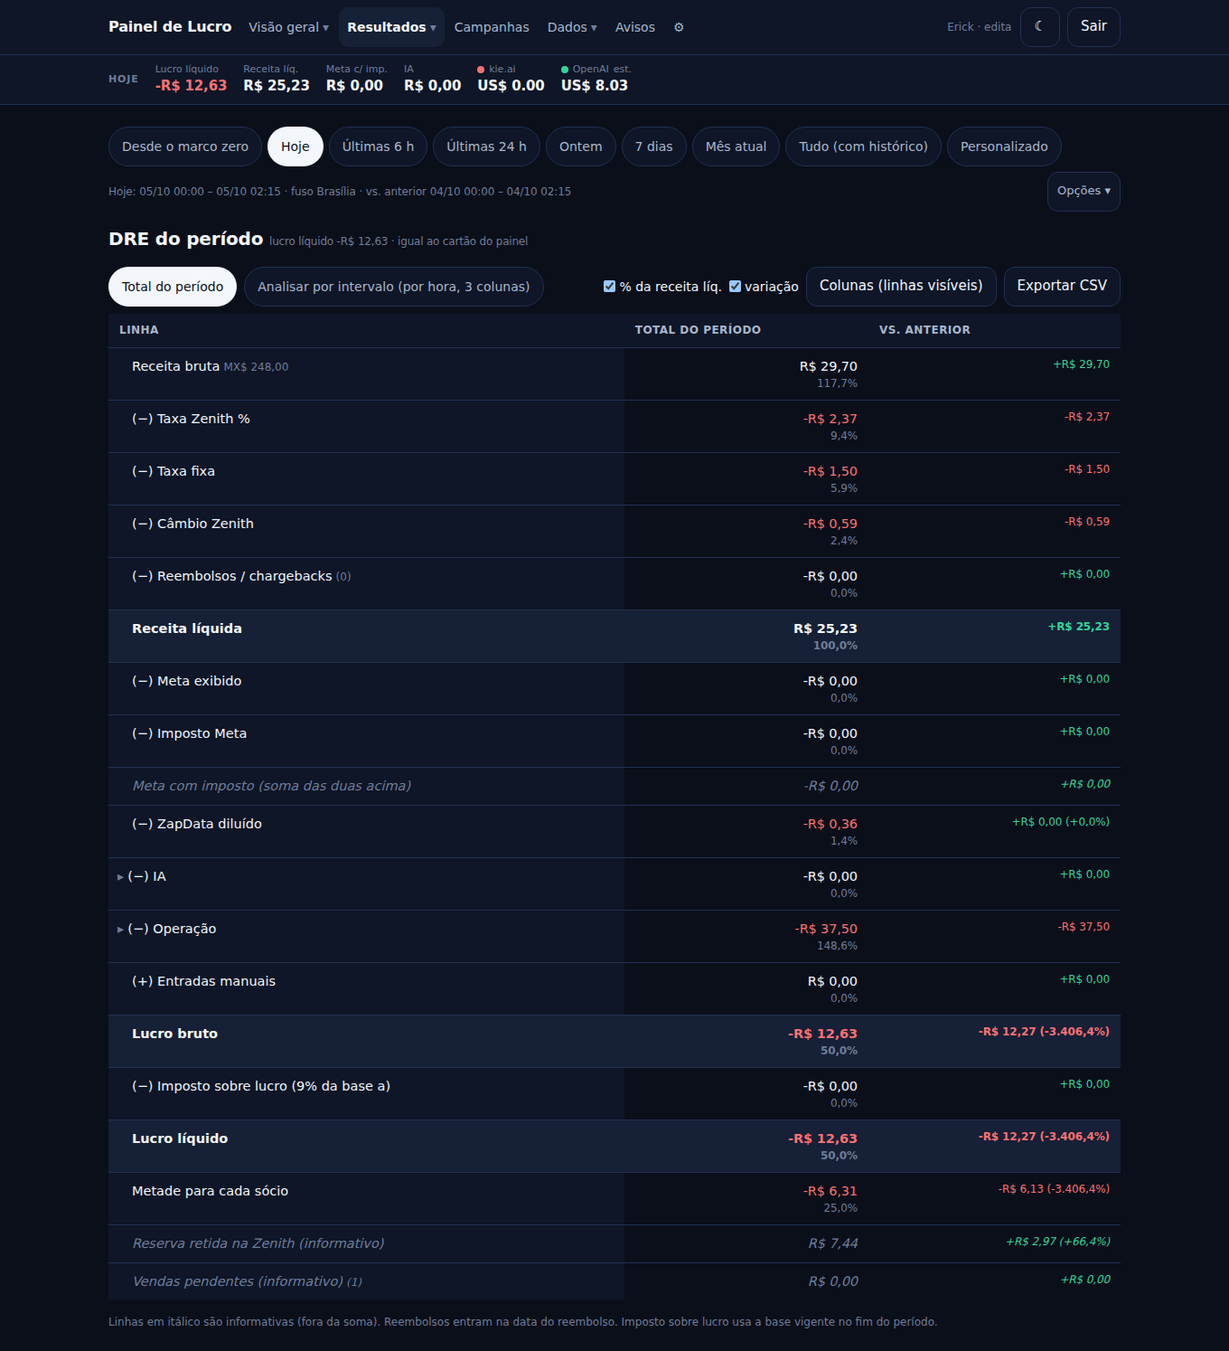
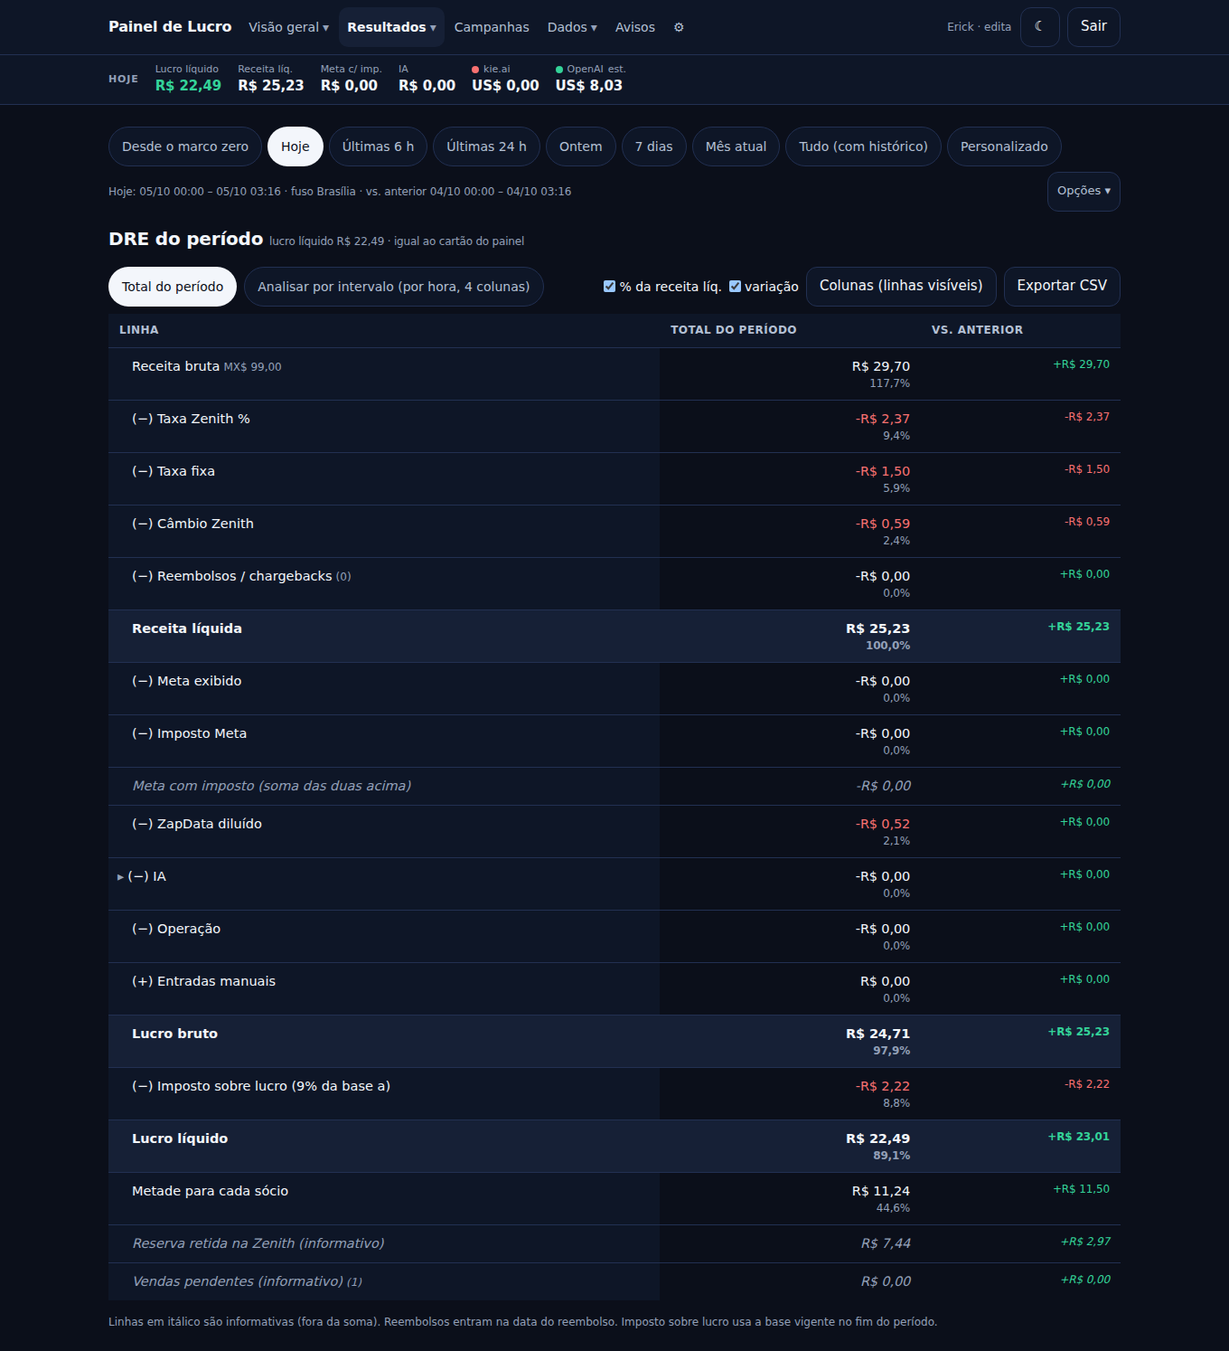
Ajustes finos do visual: sem texto quando não há base de comparação; % da variação só com base comparável (nunca com base quase zero ou troca de sinal); período só no destaque; Lucro bruto só quando difere do líquido e metade por sócio só no destaque; contraste dos rótulos ≥ 4,5:1 no claro e no escu
Claude-Session: https://claude.ai/code/session_013YvvEsXnhEqyztXkJ9r3to

diff --git a/src/app/(app)/page.tsx b/src/app/(app)/page.tsx
@@ -11,7 +11,10 @@ import { BotaoAtualizar } from "@/components/atualizar";
 import { VisoesSalvas } from "@/components/visoes";
 import { FaltaEmpatar, Projecao, GastoPorHora, TabelaNumeros } from "@/components/operacao";
 import { CartoesCreditos } from "@/components/creditos";
-import { fmtHora, fmtMoeda, fmtMXN } from "@/lib/formato";
+import { carregarCreditos } from "@/coletores/creditos";
+import { semaforoSaldo, coletaFalhando } from "@/lib/hoje";
+import { faltaParaEmpatar, gastoPorNumero } from "@/lib/calculo";
+import { fmtHora, fmtMoeda, fmtMXN, fmtHorasRestantes } from "@/lib/formato";
 import { ROTULO_FONTE } from "@/coletores";
 import { ultimaTaxaMxnInfo, ROTULO_FONTE_CAMBIO } from "@/coletores/cambio";
 import type { Params } from "@/lib/periodo-url";
@@ -25,7 +28,7 @@ export default async function Painel({ searchParams }: { searchParams: Promise<P
   const hojeP = resolverAtalho("hoje", estado.agora, estado.marcoZero, estado.tz).periodo;
   const hoje = ctx.calc(hojeP);
   const fatias = dreFatiada(ctx.entrada, estado.periodo, estado.gran, estado.tz);
-  const taxaMxnInfo = await ultimaTaxaMxnInfo().catch(() => null);
+  const [taxaMxnInfo, creditos] = await Promise.all([ultimaTaxaMxnInfo().catch(() => null), carregarCreditos(estado.agora, estado.tz).catch(() => null)]);
   const mesBruto = resolverAtalho("mes_atual", estado.agora, estado.marcoZero, estado.tz).periodo;
   const mesP = { inicio: new Date(Math.max(mesBruto.inicio.getTime(), estado.marcoZero.getTime())), fim: mesBruto.fim }; // mesma base do "desde o marco zero"
   const mes = ctx.calc(mesP);
@@ -39,11 +42,24 @@ export default async function Painel({ searchParams }: { searchParams: Promise<P
   const varLucro = textoVariacao(t.lucroLiquido, a.lucroLiquido, temBaseAnterior, "moeda", estado.moeda, taxaMxn);
   const atrasadas = [...coletas.entries()].filter(([f, c]) => f !== "zenith" && !c.naoConfigurada && (!c.ultimaOk || estado.agora.getTime() - c.ultimaOk.getTime() > 30 * 60_000));
   const query = new URLSearchParams(Object.entries(sp).flatMap(([k, v]) => (typeof v === "string" ? [[k, v]] : []))).toString();
+  const numeros = gastoPorNumero(ctx.entrada.lancamentos, estado.periodo, ctx.params, estado.incluirHistorico);
+  const topNumero = Array.isArray(numeros) && numeros.length ? [...numeros].sort((x, y) => y.gasto - x.gasto)[0] : null;
+  const falta = faltaParaEmpatar(hoje);
+  const COR_SEM = { verde: "pos", amarelo: "text-warn", vermelho: "neg", cinza: "" } as const;
+  const resumoCreditos = (() => {
+    if (!creditos) return "dado indisponível";
+    const itens = [["kie.ai", creditos.kie, "kie"], ["OpenAI", creditos.openai, "openai"]] as const;
+    const comHoras = itens.filter(([, s]) => s.horasRestantes != null).sort((a, b) => a[1].horasRestantes! - b[1].horasRestantes!);
+    if (!comHoras.length) return "sem estimativa de duração";
+    const [nome, s, fonte] = comHoras[0];
+    const sem = semaforoSaldo(s, coletaFalhando(coletas.get(fonte), estado.agora));
+    return <span className={COR_SEM[sem]}>{nome} acaba em {fmtHorasRestantes(s.horasRestantes)}</span>;
+  })();
   const cCambio = coletas.get("cambio"); const agendadorHa = cCambio ? Math.round((estado.agora.getTime() - cCambio.ultima.getTime()) / 60_000) : null;
 
   return (
     <>
-      <Suspense fallback={<div className="h-12 skeleton" />}><SeletorPeriodo {...ctx.propsSeletor} /></Suspense>
+      <Suspense fallback={<div className="h-12 skeleton" />}><SeletorPeriodo {...ctx.propsSeletor} semRotulo /></Suspense>
       <VisoesSalvas />
       {ctx.problemas.length > 0 && <div className="text-xs text-warn">{ctx.problemas.map((p, i) => <div key={i}>⚠ {p}</div>)}</div>}
 
@@ -53,7 +69,7 @@ export default async function Painel({ searchParams }: { searchParams: Promise<P
           <div className="hero-k">Lucro líquido do período <span className="text-ink-3">· {ctx.propsSeletor.rotuloPeriodo}</span></div>
           <div className={`hero-v num ${t.lucroLiquido < 0 ? "neg" : t.lucroLiquido > 0 ? "pos" : ""}`}>{money(t.lucroLiquido)}</div>
           <div className="hero-sub num">
-            <span className={varLucro.bom == null ? "" : varLucro.bom ? "pos" : "neg"}>{varLucro.texto}{varLucro.bom != null && <span className="text-ink-3"> ({ctx.propsSeletor.rotuloAnterior})</span>}</span>
+            {varLucro.texto && <span className={varLucro.bom == null ? "" : varLucro.bom ? "pos" : "neg"}>{varLucro.texto}<span className="text-ink-3"> ({ctx.propsSeletor.rotuloAnterior})</span></span>}
             <span>metade para cada sócio {money(t.porSocio)}</span>
           </div>
         </div>
@@ -73,13 +89,12 @@ export default async function Painel({ searchParams }: { searchParams: Promise<P
 
       <Secao id="indicadores" titulo="Indicadores" resumo={`margem ${i.margemLiquida == null ? "—" : `${(i.margemLiquida * 100).toFixed(1)}%`} · ROAS ${i.roas == null ? "—" : `${i.roas.toFixed(2)}×`}`}>
         <div className="grade-metricas">
-          <Metrica rotulo="Lucro bruto" valor={t.lucroBruto} anterior={a.lucroBruto} colorir {...base} />
+          {Math.abs(t.lucroBruto - t.lucroLiquido) >= 0.005 && <Metrica rotulo="Lucro bruto" valor={t.lucroBruto} anterior={a.lucroBruto} colorir {...base} />}
           <Metrica rotulo="Margem líquida" valor={i.margemLiquida} anterior={ia.margemLiquida} formato="pct" temBase={temBaseAnterior} />
           <Metrica rotulo="Ticket médio líquido" valor={i.ticketMedioLiquido} anterior={ia.ticketMedioLiquido} {...base} />
           <Metrica rotulo="Custo por venda" valor={i.custoPorVenda} anterior={ia.custoPorVenda} inverterSinal {...base} />
           <Metrica rotulo="ROAS" valor={i.roas} anterior={ia.roas} formato="razao" temBase={temBaseAnterior} nota={i.roas == null ? "sem receita no período" : undefined} />
           <Metrica rotulo="POAS" valor={i.poas} anterior={ia.poas} formato="razao" temBase={temBaseAnterior} nota={i.poas == null ? "sem receita no período" : undefined} />
-          <Metrica rotulo="Metade para cada sócio" valor={t.porSocio} anterior={a.porSocio} colorir {...base} />
           <Metrica rotulo="Imposto sobre lucro" valor={t.impostoLucro} anterior={a.impostoLucro} inverterSinal {...base} />
         </div>
       </Secao>
@@ -107,17 +122,17 @@ export default async function Painel({ searchParams }: { searchParams: Promise<P
         </div>
       </Secao>
 
-      <Secao id="numeros" titulo="Por número de WhatsApp">
+      <Secao id="numeros" titulo="Por número de WhatsApp" resumo={topNumero ? `maior gasto: ${topNumero.numero} ${money(topNumero.gasto)}` : "sem gasto no período"}>
         <TabelaNumeros lancamentos={ctx.entrada.lancamentos} periodo={estado.periodo} params={ctx.params} incluirHistorico={estado.incluirHistorico} {...d} />
       </Secao>
 
-      <Secao id="graficos" titulo="Gráficos">
+      <Secao id="graficos" titulo="Gráficos" resumo={`lucro por ${estado.gran} · ${fatias.length} pontos`}>
         <Grafico dados={dadosGrafico} titulo={`Receita líquida × custos empilhados + lucro líquido (por ${estado.gran})`} />
         <GastoPorHora lancamentos={ctx.entrada.lancamentos} periodo={estado.periodo} tz={estado.tz} params={ctx.params} incluirHistorico={estado.incluirHistorico} rotuloPeriodo={ctx.propsSeletor.rotuloPeriodo} {...d} />
         {estado.moeda === "MXN" && <p className="text-xs text-ink-3">Valores em MX$ convertidos de BRL pela última taxa MXN→BRL conhecida ({taxaMxn?.toFixed(4) ?? "—"}). Gráficos permanecem em R$.</p>}
       </Secao>
 
-      <Secao id="projecao" titulo="Projeção e ponto de equilíbrio">
+      <Secao id="projecao" titulo="Projeção e ponto de equilíbrio" resumo={falta.faltaReceita === 0 ? <span className="pos">hoje já está no lucro</span> : `falta ${money(falta.faltaReceita)} para empatar hoje`}>
         <div className="grade-metricas">
           <FaltaEmpatar hoje={hoje} {...d} />
           <Projecao mes={mes} agora={estado.agora} tz={estado.tz} marcoZero={estado.marcoZero} {...d} />
@@ -126,8 +141,8 @@ export default async function Painel({ searchParams }: { searchParams: Promise<P
         </div>
       </Secao>
 
-      <Secao id="creditos" titulo="Créditos das IAs">
-        <CartoesCreditos tz={estado.tz} agora={estado.agora} edita={ctx.sessao.papel === "edita"} />
+      <Secao id="creditos" titulo="Créditos das IAs" resumo={resumoCreditos}>
+        <CartoesCreditos tz={estado.tz} agora={estado.agora} edita={ctx.sessao.papel === "edita"} dados={creditos} />
       </Secao>
 
       <Secao id="fontes" titulo="Fontes e atualização" resumo={agendadorHa == null ? "agendador nunca rodou" : `agendador há ${agendadorHa} min${atrasadas.length ? ` · ${atrasadas.length} fonte(s) atrasada(s)` : ""}`}>

diff --git a/src/app/(app)/dre/tabela.tsx b/src/app/(app)/dre/tabela.tsx
@@ -1,7 +1,7 @@
 "use client";
 import { useMemo, useState } from "react";
 import type { LinhaDRE } from "@/lib/calculo";
-import { fmtMoeda, fmtMXN, fmtPct, fmtPctSimples } from "@/lib/formato";
+import { fmtMoeda, fmtMXN, fmtPct, fmtPctSimples, pctFazSentido } from "@/lib/formato";
 
 export type ColunaDRE = { chave: string; rotulo: string; linhas: LinhaDRE[]; receitaLiquida: number };
 
@@ -96,7 +96,7 @@ export function TabelaDRE(props: { atual: ColunaDRE; anterior: ColunaDRE; temBas
                       <td key={c.chave} className="text-right num whitespace-nowrap">
                         <div className={v < 0 && !li.informativo ? "text-neg" : ""}>{money(v)}</div>
                         {verPct && !li.informativo && <div className="text-xs text-ink-3">{pct == null ? "—" : fmtPctSimples(Math.abs(pct))}</div>}
-                        {modo === "intervalos" && mostrarVar && antCol && <div className="text-xs text-ink-3">{fmtPct(antCol.valor ? (v - antCol.valor) / Math.abs(antCol.valor) : null)}</div>}
+                        {modo === "intervalos" && mostrarVar && antCol && <div className="text-xs text-ink-3">{pctFazSentido(v, antCol.valor) ? fmtPct((v - antCol.valor) / Math.abs(antCol.valor)) : `${v - antCol.valor >= 0 ? "+" : ""}${money(v - antCol.valor)}`}</div>}
                       </td>
                     );
                   })}
@@ -105,7 +105,7 @@ export function TabelaDRE(props: { atual: ColunaDRE; anterior: ColunaDRE; temBas
                     const v = achar(props.atual.linhas, li.chave)?.valor ?? 0;
                     if (a == null) return <td className="text-right text-xs text-ink-3">sem base</td>;
                     const d = v - a;
-                    return <td className="text-right num text-xs whitespace-nowrap"><span className={d >= 0 ? "text-pos" : "text-neg"}>{d >= 0 ? "+" : ""}{money(d)} {a ? `(${fmtPct(d / Math.abs(a))})` : ""}</span></td>;
+                    return <td className="text-right num text-xs whitespace-nowrap"><span className={d >= 0 ? "text-pos" : "text-neg"}>{d >= 0 ? "+" : ""}{money(d)} {pctFazSentido(v, a) ? `(${fmtPct(d / Math.abs(a))})` : ""}</span></td>;
                   })()}
                 </tr>
               );

diff --git a/src/components/creditos.tsx b/src/components/creditos.tsx
@@ -1,15 +1,16 @@
 import { carregarCreditos } from "@/coletores/creditos";
 import { alertaSaldo, type SaldoIA } from "@/lib/calculo";
-import { fmtHora } from "@/lib/formato";
+import { fmtHora, fmtUSD, fmtHorasRestantes } from "@/lib/formato";
 import { paraInputLocal } from "@/lib/periodo-url";
 import { FormCreditoOpenAI } from "./creditos-form";
 
-const usd = (v: number | null | undefined, casas = 2) => (v == null || !Number.isFinite(v) ? "—" : `US$ ${v.toFixed(casas)}`);
+const usd = (v: number | null | undefined, casas = 2) => fmtUSD(v, casas);
 
-export async function CartoesCreditos({ tz, agora, edita }: { tz: string; agora: Date; edita: boolean }) {
-  let dados: Awaited<ReturnType<typeof carregarCreditos>> | null = null;
+export type DadosCreditos = Awaited<ReturnType<typeof carregarCreditos>>;
+export async function CartoesCreditos({ tz, agora, edita, dados: pre }: { tz: string; agora: Date; edita: boolean; dados?: DadosCreditos | null }) {
+  let dados: DadosCreditos | null = pre ?? null;
   let erro = "";
-  try { dados = await carregarCreditos(agora, tz); } catch (e) { erro = e instanceof Error ? e.message : String(e); }
+  if (!dados) try { dados = await carregarCreditos(agora, tz); } catch (e) { erro = e instanceof Error ? e.message : String(e); }
   if (!dados) return <div className="card p-3 text-xs text-warn">Créditos das IAs: dado indisponível ({erro}).</div>;
   const { kie, openai, limites } = dados;
   return (
@@ -22,7 +23,7 @@ export async function CartoesCreditos({ tz, agora, edita }: { tz: string; agora:
 
 function Cartao({ s, titulo, tz, limites, rodape }: { s: SaldoIA; titulo: string; tz: string; limites: { horas: number; usd: number }; rodape?: React.ReactNode }) {
   const alerta = alertaSaldo(s, limites);
-  const horas = s.horasRestantes == null ? "—" : s.horasRestantes >= 48 ? `~${(s.horasRestantes / 24).toFixed(1)} dias` : `~${s.horasRestantes.toFixed(1)} h`;
+  const horas = fmtHorasRestantes(s.horasRestantes);
   return (
     <div className={`card p-3 md:p-4 ${alerta ? "border-neg" : ""}`} style={alerta ? { borderColor: "var(--neg)" } : undefined}>
       <div className="flex items-baseline justify-between gap-2">

diff --git a/src/components/metrica.tsx b/src/components/metrica.tsx
@@ -1,5 +1,5 @@
 import { variacao } from "@/lib/calculo";
-import { fmtMoeda, fmtPct, type Moeda } from "@/lib/formato";
+import { fmtMoeda, fmtPct, pctFazSentido, type Moeda } from "@/lib/formato";
 
 export type FormatoMetrica = "moeda" | "razao" | "pct" | "int" | "texto";
 
@@ -16,10 +16,11 @@ export function textoMetrica(valor: number | null | undefined, formato: FormatoM
 
 export function textoVariacao(valor: number | null | undefined, anterior: number | null | undefined, temBase: boolean, formato: FormatoMetrica, moeda: Moeda, taxaMxn?: number | null): { texto: string; bom: boolean | null } {
   const v = variacao(valor ?? 0, temBase && anterior != null ? anterior : null);
-  if (v.abs == null) return { texto: "sem base de comparação", bom: null };
+  if (v.abs == null) return { texto: "", bom: null };
   const sinal = v.abs >= 0 ? "+" : "";
   const abs = formato === "moeda" ? fmtMoeda(v.abs, moeda, taxaMxn) : formato === "pct" ? `${(v.abs * 100).toFixed(1)} p.p.` : formato === "int" ? String(v.abs) : new Intl.NumberFormat("pt-BR", { minimumFractionDigits: 2, maximumFractionDigits: 2 }).format(v.abs);
-  return { texto: `${sinal}${abs}${v.pct != null ? ` (${fmtPct(v.pct)})` : ""} vs. anterior`, bom: v.abs === 0 ? null : v.abs >= 0 };
+  const comPct = v.pct != null && formato !== "pct" && pctFazSentido(valor ?? 0, anterior);
+  return { texto: `${sinal}${abs}${comPct ? ` (${fmtPct(v.pct)})` : ""} vs. anterior`, bom: v.abs === 0 ? null : v.abs >= 0 };
 }
 
 /** Número sem caixa: rótulo pequeno, valor médio, variação embaixo. Cor só no número e na variação. */
@@ -39,7 +40,7 @@ export function Metrica(props: {
       <div className="metrica-s num">
         {props.indisponivel ? <span className="text-warn">dado indisponível: {props.indisponivel}</span>
           : (anterior === undefined || valor == null) && !props.nota ? null
-          : anterior === undefined || valor == null ? props.nota
+          : anterior === undefined || valor == null || !vr.texto ? props.nota
           : <><span className={bom == null ? "" : bom ? "pos" : "neg"}>{vr.texto}</span>{props.nota && <span> · {props.nota}</span>}</>}
       </div>
     </div>

diff --git a/src/components/cartao.tsx b/src/components/cartao.tsx
@@ -1,5 +1,5 @@
 import { variacao } from "@/lib/calculo";
-import { fmtMoeda, fmtPct, type Moeda } from "@/lib/formato";
+import { fmtMoeda, fmtPct, pctFazSentido, type Moeda } from "@/lib/formato";
 
 export function Cartao(props: {
   rotulo: string; valor: number | null | undefined; anterior?: number | null; temBase?: boolean; formato?: "moeda" | "razao" | "pct" | "int" | "texto";
@@ -17,10 +17,10 @@ export function Cartao(props: {
       <div className="rotulo truncate" title={props.rotulo}>{props.rotulo}</div>
       <div className={`num ${props.hero ? "valor-xl" : "valor"} ${negativo ? "neg" : positivo ? "pos" : ""}`}>{texto}</div>
       <div className={`text-xs num ${props.hero ? "sub" : "text-ink-3"}`}>
-        {props.indisponivel ? <span className="text-warn">dado indisponível: {props.indisponivel}</span> : v.abs == null ? "sem base de comparação" : (
+        {props.indisponivel ? <span className="text-warn">dado indisponível: {props.indisponivel}</span> : v.abs == null ? null : (
           <span className={bom ? "pos" : "neg"}>
             {formato === "moeda" ? `${v.abs >= 0 ? "+" : ""}${fmtMoeda(v.abs, moeda, taxaMxn)}` : formato === "pct" ? `${v.abs >= 0 ? "+" : ""}${(v.abs * 100).toFixed(1)} p.p.` : `${v.abs >= 0 ? "+" : ""}${formato === "int" ? v.abs : new Intl.NumberFormat("pt-BR", { minimumFractionDigits: 2, maximumFractionDigits: 2 }).format(v.abs)}`}
-            {v.pct != null && ` (${fmtPct(v.pct)})`}
+            {v.pct != null && formato !== "pct" && pctFazSentido(valor ?? 0, anterior) && ` (${fmtPct(v.pct)})`}
             <span className={props.hero ? "" : "text-ink-3"}> vs. anterior</span>
           </span>
         )}

diff --git a/src/components/seletor-periodo.tsx b/src/components/seletor-periodo.tsx
@@ -9,7 +9,7 @@ const ATALHOS: Atalho[] = ["marco_zero", "hoje", "ultimas_6h", "ultimas_24h", "o
 
 export function SeletorPeriodo(props: {
   atalho: Atalho; deLocal: string; ateLocal: string; tz: string; incluirHistorico: boolean; incluirManuais: boolean; moeda: "BRL" | "MXN";
-  rotuloPeriodo: string; rotuloAnterior: string; gran: "hora" | "dia"; granManual: boolean; podeSalvar: boolean;
+  rotuloPeriodo: string; rotuloAnterior: string; gran: "hora" | "dia"; granManual: boolean; podeSalvar: boolean; semRotulo?: boolean;
 }) {
   const router = useRouter(); const pathname = usePathname(); const sp = useSearchParams();
   const [, start] = useTransition();
@@ -38,7 +38,7 @@ export function SeletorPeriodo(props: {
         </form>
       )}
       <div className="flex items-center justify-between gap-3 mt-1.5">
-        <div className="text-xs text-ink-3 num min-w-0">{props.rotuloPeriodo} · fuso {props.tz === "America/Mexico_City" ? "México" : "Brasília"}<span className="hidden sm:inline"> · vs. anterior {props.rotuloAnterior}</span></div>
+        <div className="text-xs text-ink-3 num min-w-0">{props.semRotulo ? <span className="hidden sm:inline">fuso {props.tz === "America/Mexico_City" ? "México" : "Brasília"}</span> : <>{props.rotuloPeriodo} · fuso {props.tz === "America/Mexico_City" ? "México" : "Brasília"}<span className="hidden sm:inline"> · vs. anterior {props.rotuloAnterior}</span></>}</div>
         <div className="relative shrink-0" ref={popRef}>
           <button type="button" className="btn btn-mini" aria-expanded={opcoes} onClick={() => setOpcoes((v) => !v)}>Opções ▾</button>
           {opcoes && (

diff --git a/src/lib/formato.ts b/src/lib/formato.ts
@@ -30,3 +30,22 @@ export function fmtDataHora(d: Date | string | null | undefined, tz: string, pad
 export function fmtHora(d: Date | null | undefined, tz: string): string { return fmtDataHora(d, tz, "HH:mm"); }
 export function fmtRazao(v: number | null | undefined): string { return v == null || !Number.isFinite(v) ? "—" : `${fmtNum(v, 2)}×`; }
 export const ROTULO_TZ: Record<string, string> = { "America/Sao_Paulo": "Brasília", "America/Mexico_City": "México" };
+
+/** Dólar em pt-BR: "US$ 1,51". */
+export function fmtUSD(v: number | null | undefined, casas = 2): string {
+  if (v == null || !Number.isFinite(v)) return "—";
+  return `US$ ${new Intl.NumberFormat("pt-BR", { minimumFractionDigits: casas, maximumFractionDigits: casas }).format(v)}`;
+}
+/** Tempo restante em pt-BR: "~1,5 h" ou "~2,3 dias". */
+export function fmtHorasRestantes(h: number | null | undefined, curto = false): string {
+  if (h == null || !Number.isFinite(h)) return "—";
+  return h >= 48 ? `~${fmtNum(h / 24, curto ? 0 : 1)} ${curto ? "d" : "dias"}` : `~${fmtNum(h, 1)} h`;
+}
+/** Só exibição: o % da variação não faz sentido quando a base é quase zero (|anterior| < 10 ou < 10% do atual) ou quando o sinal troca. */
+export function pctFazSentido(atual: number, anterior: number | null | undefined): boolean {
+  if (anterior == null || anterior === 0) return false;
+  if (Math.abs(anterior) < 10) return false;
+  if (Math.abs(anterior) < 0.1 * Math.abs(atual)) return false;
+  if (atual * anterior < 0) return false;
+  return true;
+}

diff --git a/src/components/barra-hoje.tsx b/src/components/barra-hoje.tsx
@@ -1,6 +1,6 @@
 import Link from "next/link";
 import { dadosHoje, semaforoSaldo, coletaFalhando, avaliarAgendadorSeParado, type Semaforo } from "@/lib/hoje";
-import { fmtBRL } from "@/lib/formato";
+import { fmtBRL, fmtUSD, fmtHorasRestantes } from "@/lib/formato";
 
 const COR: Record<Semaforo, string> = { verde: "var(--pos)", amarelo: "var(--warn)", vermelho: "var(--neg)", cinza: "var(--text-3)" };
 
@@ -11,8 +11,8 @@ export async function BarraHoje() {
   const t = d.hoje?.totais;
   const sk = semaforoSaldo(d.kie, coletaFalhando(d.coletas.get("kie"), d.agora));
   const so = semaforoSaldo(d.openai, coletaFalhando(d.coletas.get("openai"), d.agora));
-  const horas = (h: number | null | undefined) => (h == null ? "" : h >= 48 ? ` · ~${(h / 24).toFixed(0)} d` : ` · ~${h.toFixed(1)} h`);
-  const usd = (v: number | null | undefined) => (v == null ? "—" : `US$ ${v.toFixed(2)}`);
+  const horas = (h: number | null | undefined) => (h == null ? "" : ` · ${fmtHorasRestantes(h, true)}`);
+  const usd = (v: number | null | undefined) => fmtUSD(v);
   return (
     <div className="barra-hoje" role="region" aria-label="Hoje">
       <div className="barra-hoje-inner">

diff --git a/tests/formato.test.ts b/tests/formato.test.ts
@@ -1,0 +1,19 @@
+import { describe, expect, it } from "vitest";
+import { fmtUSD, fmtHorasRestantes, pctFazSentido } from "@/lib/formato";
+
+describe("formato pt-BR dos créditos", () => {
+  it("US$ com vírgula", () => { expect(fmtUSD(1.51)).toBe("US$ 1,51"); expect(fmtUSD(null)).toBe("—"); });
+  it("horas restantes com vírgula", () => { expect(fmtHorasRestantes(1.5)).toBe("~1,5 h"); expect(fmtHorasRestantes(60)).toBe("~2,5 dias"); expect(fmtHorasRestantes(60, true)).toBe("~3 d"); });
+});
+
+describe("percentual da variação só quando faz sentido (exibição)", () => {
+  it("base quase zero ou troca de sinal: sem %", () => {
+    expect(pctFazSentido(-12.63, -0.36)).toBe(false); // -3.401% do print
+    expect(pctFazSentido(100, 5)).toBe(false);
+    expect(pctFazSentido(1000, 50)).toBe(false); // < 10% do atual
+    expect(pctFazSentido(50, -40)).toBe(false);
+    expect(pctFazSentido(50, 0)).toBe(false);
+    expect(pctFazSentido(50, null)).toBe(false);
+  });
+  it("base comparável: com %", () => { expect(pctFazSentido(120, 100)).toBe(true); expect(pctFazSentido(-80, -100)).toBe(true); });
+});

diff --git a/src/app/globals.css b/src/app/globals.css
@@ -12,7 +12,7 @@
   --border: #d5ddeb;
   --text: #0b1220;
   --text-2: #46546d;
-  --text-3: #7a8699;
+  --text-3: #5b6881; /* 5,6:1 sobre o fundo claro */
   --accent: #2563eb;
   --accent-2: #16a34a;
   --pos: #15803d;
@@ -31,8 +31,8 @@
   --surface-2: #162036;
   --border: #223052;
   --text: #f3f6fb;
-  --text-2: #aab6cc;
-  --text-3: #6f7d99;
+  --text-2: #b4c0d4;
+  --text-3: #93a0b8; /* 7,4:1 sobre o fundo escuro */
   --accent: #3b82f6;
   --accent-2: #22c55e;
   --pos: #34d399;
